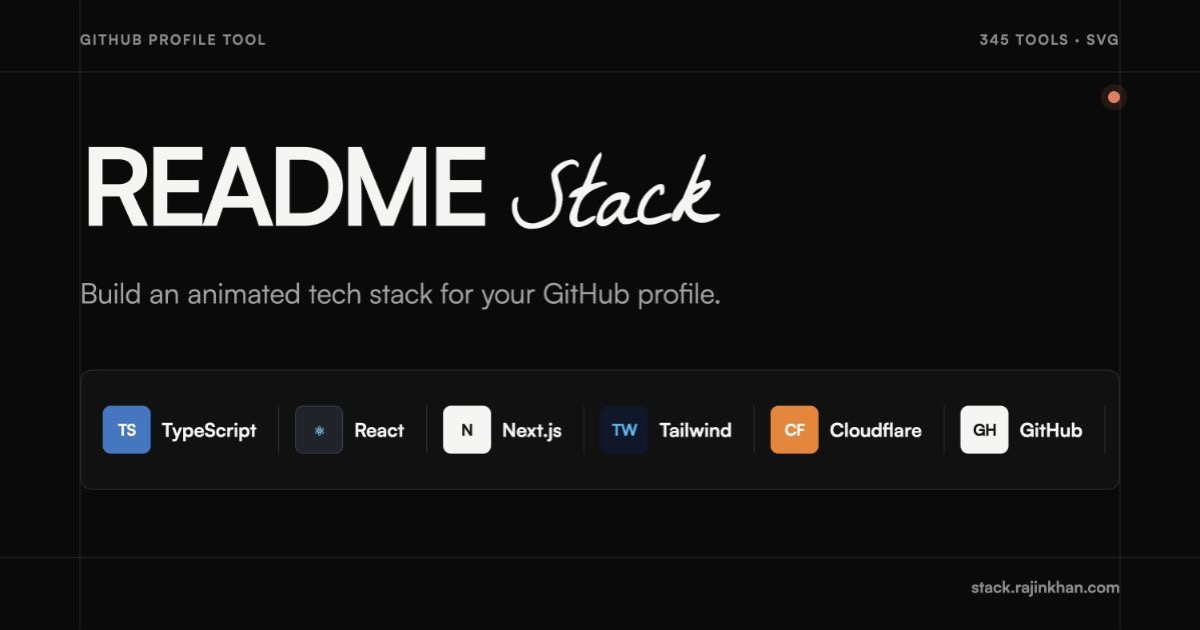
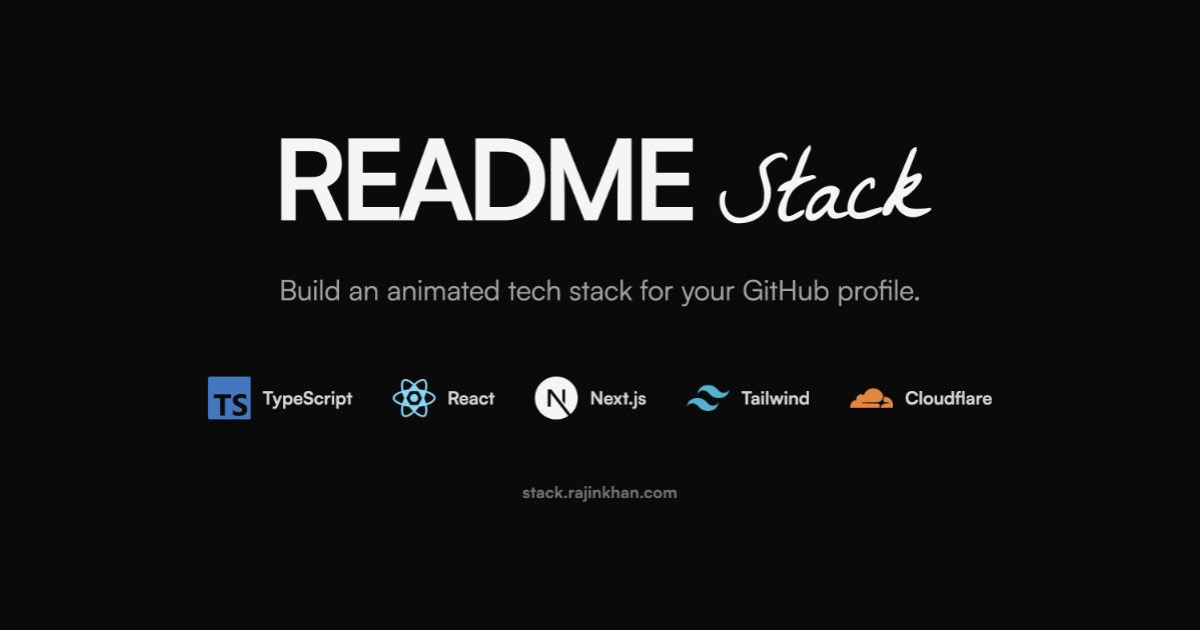
Refine the social preview image

diff --git a/public/og/source.html b/public/og/source.html
@@ -30,59 +30,37 @@
         background: #0a0a0a;
       }
       body {
-        position: relative;
+        display: grid;
+        place-items: center;
         color: #f5f5f4;
         font-family: "Satoshi", sans-serif;
       }
-      body::before {
-        position: absolute;
-        inset: 0;
-        background:
-          linear-gradient(90deg, transparent 79px, #232323 80px, transparent 81px),
-          linear-gradient(90deg, transparent 1119px, #232323 1120px, transparent 1121px),
-          linear-gradient(transparent 71px, #232323 72px, transparent 73px),
-          linear-gradient(transparent 557px, #232323 558px, transparent 559px);
-        content: "";
-      }
-      .corner {
-        position: absolute;
-        top: 30px;
-        color: #8c8c8c;
-        font-size: 14px;
-        font-weight: 700;
-        letter-spacing: 0.12em;
-        text-transform: uppercase;
-      }
-      .corner.left { left: 80px; }
-      .corner.right { right: 80px; }
       main {
-        position: relative;
         display: flex;
-        height: 100%;
+        width: 1040px;
         flex-direction: column;
-        justify-content: center;
-        padding: 82px 80px 88px;
+        align-items: center;
+        text-align: center;
       }
       h1 {
         display: flex;
         align-items: baseline;
         gap: 28px;
-        margin: 2px 0 18px;
-        font-size: 108px;
+        margin: 0 0 20px;
+        font-size: 112px;
         font-weight: 700;
         letter-spacing: -0.07em;
         line-height: 0.9;
       }
       h1 em {
         font-family: "La Belle Aurore", cursive;
-        font-size: 99px;
+        font-size: 101px;
         font-style: normal;
         font-weight: 400;
         letter-spacing: 0;
         transform: rotate(-2deg);
       }
       .lede {
-        width: 690px;
         margin: 0;
         color: #a3a3a3;
         font-size: 28px;
@@ -90,79 +68,63 @@
       }
       .stack {
         display: flex;
-        height: 120px;
         align-items: center;
-        gap: 12px;
-        margin-top: 58px;
-        overflow: hidden;
-        border: 1px solid #303030;
-        border-radius: 12px;
-        background: #111111;
-        padding: 18px;
+        justify-content: center;
+        gap: 40px;
+        margin-top: 68px;
       }
       .tool {
         display: flex;
-        min-width: max-content;
         align-items: center;
-        gap: 11px;
-        border-right: 1px solid #303030;
-        padding: 0 22px 0 4px;
-        font-size: 19px;
+        gap: 12px;
+        color: #d4d4d4;
+        font-size: 18px;
         font-weight: 700;
+        white-space: nowrap;
       }
-      .mark {
-        display: grid;
-        width: 48px;
-        height: 48px;
-        place-items: center;
-        border-radius: 8px;
-        color: white;
-        font-size: 16px;
-        font-weight: 700;
-        letter-spacing: -0.04em;
+      .logo {
+        display: block;
+        width: 43px;
+        height: 43px;
       }
-      .ts { background: #3178c6; }
-      .react { background: #20232a; color: #61dafb; border: 1px solid #38414a; }
-      .next { background: #f5f5f4; color: #111; }
-      .tailwind { background: #0f172a; color: #38bdf8; }
-      .cloudflare { background: #f38020; }
-      .github { background: #f5f5f4; color: #111; }
-      .dot {
-        position: absolute;
-        right: 80px;
-        top: 91px;
-        width: 12px;
-        height: 12px;
-        border-radius: 999px;
-        background: #ef765a;
-        box-shadow: 0 0 0 7px rgb(239 118 90 / 0.12);
-      }
+      .logo path { fill: var(--brand); }
+      .next path, .github path { fill: #f5f5f4; }
       .url {
-        position: absolute;
-        right: 80px;
-        bottom: 32px;
-        color: #8c8c8c;
+        margin-top: 62px;
+        color: #737373;
         font-size: 16px;
         font-weight: 700;
+        letter-spacing: 0.02em;
       }
     </style>
   </head>
   <body>
-    <span class="corner left">GitHub profile tool</span>
-    <span class="corner right">345 tools · SVG</span>
-    <span class="dot"></span>
     <main>
       <h1><span>README</span><em>Stack</em></h1>
       <p class="lede">Build an animated tech stack for your GitHub profile.</p>
       <div class="stack" aria-label="Example developer Tool Stack">
-        <div class="tool"><span class="mark ts">TS</span>TypeScript</div>
-        <div class="tool"><span class="mark react">⚛</span>React</div>
-        <div class="tool"><span class="mark next">N</span>Next.js</div>
-        <div class="tool"><span class="mark tailwind">TW</span>Tailwind</div>
-        <div class="tool"><span class="mark cloudflare">CF</span>Cloudflare</div>
-        <div class="tool"><span class="mark github">GH</span>GitHub</div>
+        <div class="tool">
+          <svg class="logo" style="--brand:#3178c6" viewBox="0 0 24 24" aria-hidden="true"><path d="M1.125 0C.502 0 0 .502 0 1.125v21.75C0 23.498.502 24 1.125 24h21.75c.623 0 1.125-.502 1.125-1.125V1.125C24 .502 23.498 0 22.875 0zm17.363 9.75c.612 0 1.154.037 1.627.111a6.38 6.38 0 0 1 1.306.34v2.458a3.95 3.95 0 0 0-.643-.361 5.093 5.093 0 0 0-.717-.26 5.453 5.453 0 0 0-1.426-.2c-.3 0-.573.028-.819.086a2.1 2.1 0 0 0-.623.242c-.17.104-.3.229-.393.374a.888.888 0 0 0-.14.49c0 .196.053.373.156.529.104.156.252.304.443.444s.423.276.696.41c.273.135.582.274.926.416.47.197.892.407 1.266.628.374.222.695.473.963.753.268.279.472.598.614.957.142.359.214.776.214 1.253 0 .657-.125 1.21-.373 1.656a3.033 3.033 0 0 1-1.012 1.085 4.38 4.38 0 0 1-1.487.596c-.566.12-1.163.18-1.79.18a9.916 9.916 0 0 1-1.84-.164 5.544 5.544 0 0 1-1.512-.493v-2.63a5.033 5.033 0 0 0 3.237 1.2c.333 0 .624-.03.872-.09.249-.06.456-.144.623-.25.166-.108.29-.234.373-.38a1.023 1.023 0 0 0-.074-1.089 2.12 2.12 0 0 0-.537-.5 5.597 5.597 0 0 0-.807-.444 27.72 27.72 0 0 0-1.007-.436c-.918-.383-1.602-.852-2.053-1.405-.45-.553-.676-1.222-.676-2.005 0-.614.123-1.141.369-1.582.246-.441.58-.804 1.004-1.089a4.494 4.494 0 0 1 1.47-.629 7.536 7.536 0 0 1 1.77-.201zm-15.113.188h9.563v2.166H9.506v9.646H6.789v-9.646H3.375z"/></svg>
+          TypeScript
+        </div>
+        <div class="tool">
+          <svg class="logo" style="--brand:#61dafb" viewBox="0 0 24 24" aria-hidden="true"><path d="M14.23 12.004a2.236 2.236 0 0 1-2.235 2.236 2.236 2.236 0 0 1-2.236-2.236 2.236 2.236 0 0 1 2.235-2.236 2.236 2.236 0 0 1 2.236 2.236zm2.648-10.69c-1.346 0-3.107.96-4.888 2.622-1.78-1.653-3.542-2.602-4.887-2.602-.41 0-.783.093-1.106.278-1.375.793-1.683 3.264-.973 6.365C1.98 8.917 0 10.42 0 12.004c0 1.59 1.99 3.097 5.043 4.03-.704 3.113-.39 5.588.988 6.38.32.187.69.275 1.102.275 1.345 0 3.107-.96 4.888-2.624 1.78 1.654 3.542 2.603 4.887 2.603.41 0 .783-.09 1.106-.275 1.374-.792 1.683-3.263.973-6.365C22.02 15.096 24 13.59 24 12.004c0-1.59-1.99-3.097-5.043-4.032.704-3.11.39-5.587-.988-6.38-.318-.184-.688-.277-1.092-.278zm-.005 1.09c.225 0 .406.044.558.133.666.382.955 1.835.73 3.704-.054.46-.142.945-.25 1.44-.96-.236-2.006-.417-3.107-.534-.66-.905-1.345-1.727-2.035-2.447 1.592-1.48 3.087-2.292 4.104-2.296zm-9.77.02c1.012 0 2.514.808 4.11 2.28-.686.72-1.37 1.537-2.02 2.442-1.107.117-2.154.298-3.113.538-.112-.49-.195-.964-.254-1.42-.23-1.868.054-3.32.714-3.707.19-.09.4-.127.563-.132zM12 8.1c.74 0 1.477.034 2.202.093.406.582.802 1.203 1.183 1.86.372.64.71 1.29 1.018 1.946-.308.655-.646 1.31-1.013 1.95-.38.66-.773 1.288-1.18 1.87-.728.063-1.466.098-2.21.098-.74 0-1.477-.035-2.202-.093-.406-.582-.802-1.204-1.183-1.86-.372-.64-.71-1.29-1.018-1.946.303-.657.646-1.313 1.013-1.954.38-.66.773-1.286 1.18-1.868.728-.064 1.466-.098 2.21-.098zm6.688.929c.484.15.944.317 1.375.498 1.732.74 2.852 1.708 2.852 2.476-.005.768-1.125 1.74-2.857 2.475-.42.18-.88.342-1.355.493-.28-.958-.646-1.956-1.1-2.98.45-1.017.81-2.01 1.085-2.964zm-13.395.004c.278.96.645 1.957 1.1 2.98-.45 1.017-.812 2.01-1.086 2.964-.484-.15-.944-.318-1.37-.5-1.732-.737-2.852-1.706-2.852-2.474 0-.768 1.12-1.742 2.852-2.476.42-.18.88-.342 1.356-.494zm12.627 7.287c.112.493.2.968.254 1.423.23 1.868-.054 3.32-.714 3.708-.147.09-.338.128-.563.128-1.012 0-2.514-.807-4.11-2.28.686-.72 1.37-1.536 2.02-2.44 1.107-.118 2.154-.3 3.113-.54zm-11.83.01c.96.234 2.006.415 3.107.532.66.905 1.345 1.727 2.035 2.446-1.595 1.483-3.092 2.295-4.11 2.295-.22-.005-.406-.05-.553-.132-.666-.38-.955-1.834-.73-3.703.054-.46.142-.944.25-1.438z"/></svg>
+          React
+        </div>
+        <div class="tool">
+          <svg class="logo next" viewBox="0 0 24 24" aria-hidden="true"><path d="M18.665 21.978C16.758 23.255 14.465 24 12 24 5.377 24 0 18.623 0 12S5.377 0 12 0s12 5.377 12 12c0 3.583-1.574 6.801-4.067 9.001L9.219 7.2H7.2v9.596h1.615V9.251l9.85 12.727Zm-3.332-8.533 1.6 2.061V7.2h-1.6v6.245Z"/></svg>
+          Next.js
+        </div>
+        <div class="tool">
+          <svg class="logo" style="--brand:#06b6d4" viewBox="0 0 24 24" aria-hidden="true"><path d="M12.001 4.8c-3.2 0-5.2 1.6-6 4.8 1.2-1.6 2.6-2.2 4.2-1.8.913.228 1.565.89 2.288 1.624C13.666 10.618 15.027 12 18.001 12c3.2 0 5.2-1.6 6-4.8-1.2 1.6-2.6 2.2-4.2 1.8-.913-.228-1.565-.89-2.288-1.624C16.337 6.182 14.976 4.8 12.001 4.8zM6.001 12c-3.2 0-5.2 1.6-6 4.8 1.2-1.6 2.6-2.2 4.2-1.8.913.228 1.565.89 2.288 1.624 1.177 1.194 2.538 2.576 5.512 2.576 3.2 0 5.2-1.6 6-4.8-1.2 1.6-2.6 2.2-4.2 1.8-.913-.228-1.565-.89-2.288-1.624C10.337 13.382 8.976 12 6.001 12z"/></svg>
+          Tailwind
+        </div>
+        <div class="tool">
+          <svg class="logo" style="--brand:#f38020" viewBox="0 0 24 24" aria-hidden="true"><path d="M16.509 16.845c.147-.507.09-.971-.156-1.316-.225-.316-.604-.499-1.061-.52l-8.66-.112a.156.156 0 0 1-.133-.072c-.028-.042-.035-.098-.021-.155.028-.084.112-.148.204-.156l8.736-.112c1.035-.049 2.16-.887 2.554-1.914l.499-1.301c.021-.056.029-.113.014-.168-.562-2.546-2.835-4.445-5.55-4.445-2.503 0-4.628 1.617-5.387 3.86-.493-.365-1.119-.562-1.794-.499-1.203.119-2.167 1.083-2.286 2.286-.028.31-.007.613.063.894C1.568 13.171 0 14.775 0 16.752c0 .175.014.352.035.527.014.083.085.148.17.148h15.98c.091 0 .176-.065.204-.156l.12-.426zm2.757-5.564c-.077 0-.161 0-.239.011-.056 0-.105.042-.127.098l-.338 1.174c-.147.507-.091.971.155 1.317.225.316.605.498 1.062.52l1.844.112c.056 0 .105.027.133.071.028.043.035.107.021.156-.028.084-.113.148-.204.155l-1.921.112c-1.041.049-2.158.887-2.552 1.914l-.141.358c-.028.072.022.142.099.142h6.597c.078 0 .148-.049.17-.126.112-.408.175-.837.175-1.28 0-2.603-2.125-4.727-4.734-4.727"/></svg>
+          Cloudflare
+        </div>
       </div>
+      <span class="url">stack.rajinkhan.com</span>
     </main>
-    <span class="url">stack.rajinkhan.com</span>
   </body>
 </html>

diff --git a/public/index.html b/public/index.html
@@ -17,8 +17,8 @@
     <meta property="og:url" content="https://stack.rajinkhan.com/">
     <meta property="og:title" content="README Stack | Animated tech stacks for GitHub profiles">
     <meta property="og:description" content="Choose your tools, customize the motion, and copy a generated SVG into your GitHub profile README.">
-    <meta property="og:image" content="https://stack.rajinkhan.com/og/readme-stack.png">
-    <meta property="og:image:secure_url" content="https://stack.rajinkhan.com/og/readme-stack.png">
+    <meta property="og:image" content="https://stack.rajinkhan.com/og/readme-stack.png?v=2">
+    <meta property="og:image:secure_url" content="https://stack.rajinkhan.com/og/readme-stack.png?v=2">
     <meta property="og:image:type" content="image/png">
     <meta property="og:image:width" content="1200">
     <meta property="og:image:height" content="630">
@@ -27,7 +27,7 @@
     <meta name="twitter:card" content="summary_large_image">
     <meta name="twitter:title" content="README Stack | Animated tech stacks for GitHub profiles">
     <meta name="twitter:description" content="Choose your tools, customize the motion, and copy a generated SVG into your GitHub profile README.">
-    <meta name="twitter:image" content="https://stack.rajinkhan.com/og/readme-stack.png">
+    <meta name="twitter:image" content="https://stack.rajinkhan.com/og/readme-stack.png?v=2">
     <meta name="twitter:image:alt" content="README Stack, animated tech stacks for GitHub profiles">
 
     <title>README Stack | Animated Tech Stack Generator for GitHub</title>
@@ -61,7 +61,7 @@
           "name": "Rajin Khan",
           "url": "https://rajinkhan.com/"
         },
-        "image": "https://stack.rajinkhan.com/og/readme-stack.png",
+        "image": "https://stack.rajinkhan.com/og/readme-stack.png?v=2",
         "featureList": [
           "345 developer tools",
           "Animated and static SVG output",
